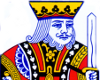
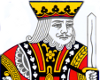
small adjustments to improve animations and img rendering

diff --git a/GameView.py b/GameView.py
@@ -102,7 +102,7 @@ def touchPile( pile):
 
 class Animation( object):
     first = 5           # default number of steps
-    speed = 40          # defautl animation speed
+    speed = 30          # defautl animation speed
 
     def __init__( self):
         self.steps = 0          # animation steps counter
@@ -153,11 +153,11 @@ def drawTopCard( card, x, y):
     pygame.draw.line( _screen, LIGHTGRAY, ( x+4, y), ( x+card_w-4, y), 1)
     # rank
     value = card.rank if card.rank != "X" else "10"
-    img = _font.render( value, 1, (BLACK,RED)[ card.isRed()])
+    img = _font.render( value, True, (BLACK,RED)[ card.isRed()])
     _screen.blit( img, (x+pad, y+pad))
     # suit
     sfc = suitsImages[ m.suits.index( card.suit)]
-    _screen.blit( sfc, ( x+card_w-sfc.get_height()-pad, y+pad))
+    _screen.blit( sfc, ( x+card_w-sfc.get_width()-pad, y+pad+2))
     #annotate card area
     card.rect = Rectangle( x, y, x+card_w, y+cardtop_h)
 
@@ -170,25 +170,27 @@ def drawFullCard( card, x, y):
     if m.ranks.index( card.rank) <= m.ranks.index( "X"):
         # draw a big seed
         sfc = bigSuitsImages[ m.suits.index( card.suit)]
+        _screen.blit( sfc, (x+(card_w-sfc.get_width())/2 , y +card_h -sfc.get_height()-4),
+                            (0, 0, card_w-8, card_h-8))
     else:
        # draw the figure
         sfc = figureImages[ ( m.ranks.index( card.rank) 
                             - m.ranks.index( "J"))*4 + m.suits.index( card.suit)]
-    _screen.blit( sfc, (x+2, y +card_h -sfc.get_height()-2),
-                        (0, 0, card_w-4, card_h-6))
+        _screen.blit( sfc, (x+4, y +card_h -sfc.get_height()-4),
+                            (0, 0, card_w-8, card_h-8))
     #annotate card area
     card.rect = Rectangle( x, y, x+card_w, y+card_h)
 
 def drawCardBack( card, x, y):
     drawTopBevel( WHITE, x, y, card_w, cardtop_h, BRADIUS)
     drawBottomBevel( WHITE, x, y+cardtop_h, card_w, card_h-cardtop_h, BRADIUS)
-    _screen.blit( backImage, (x+2, y+2), (0, 0, card_w-4, card_h-4))
+    _screen.blit( backImage, (x+4, y+4), (0, 0, card_w-8, card_h-8))
     #annotate card area
     card.rect = Rectangle( x, y, x+card_w, y+card_h)
 
 def drawTopCardBack( card, x, y):
     drawTopBevel( WHITE, x, y, card_w, cardtop_h, BRADIUS)
-    _screen.blit( backImage, (x+2, y+2),(0, 0, card_w-4, backtop_h))
+    _screen.blit( backImage, (x+4, y+4),(0, 0, card_w-8, backtop_h))
     #annotate card area
     card.rect = Rectangle( x, y, x+card_w, y+cardtop_h)
 
@@ -338,7 +340,8 @@ def initView():
     pygame.init()
     pygame.display.set_caption( "PySolitaire")
     _clock = pygame.time.Clock()
-    _font = pygame.font.Font( None, 32)
+    _font = pygame.font.Font( pygame.font.match_font('Arial'), 24)
+    _font.set_bold( True)
     _screen = pygame.display.set_mode( (XMax, YMax))
     figureImages = []
     figureImages.append( pygame.image.load("images/jh.png"))
